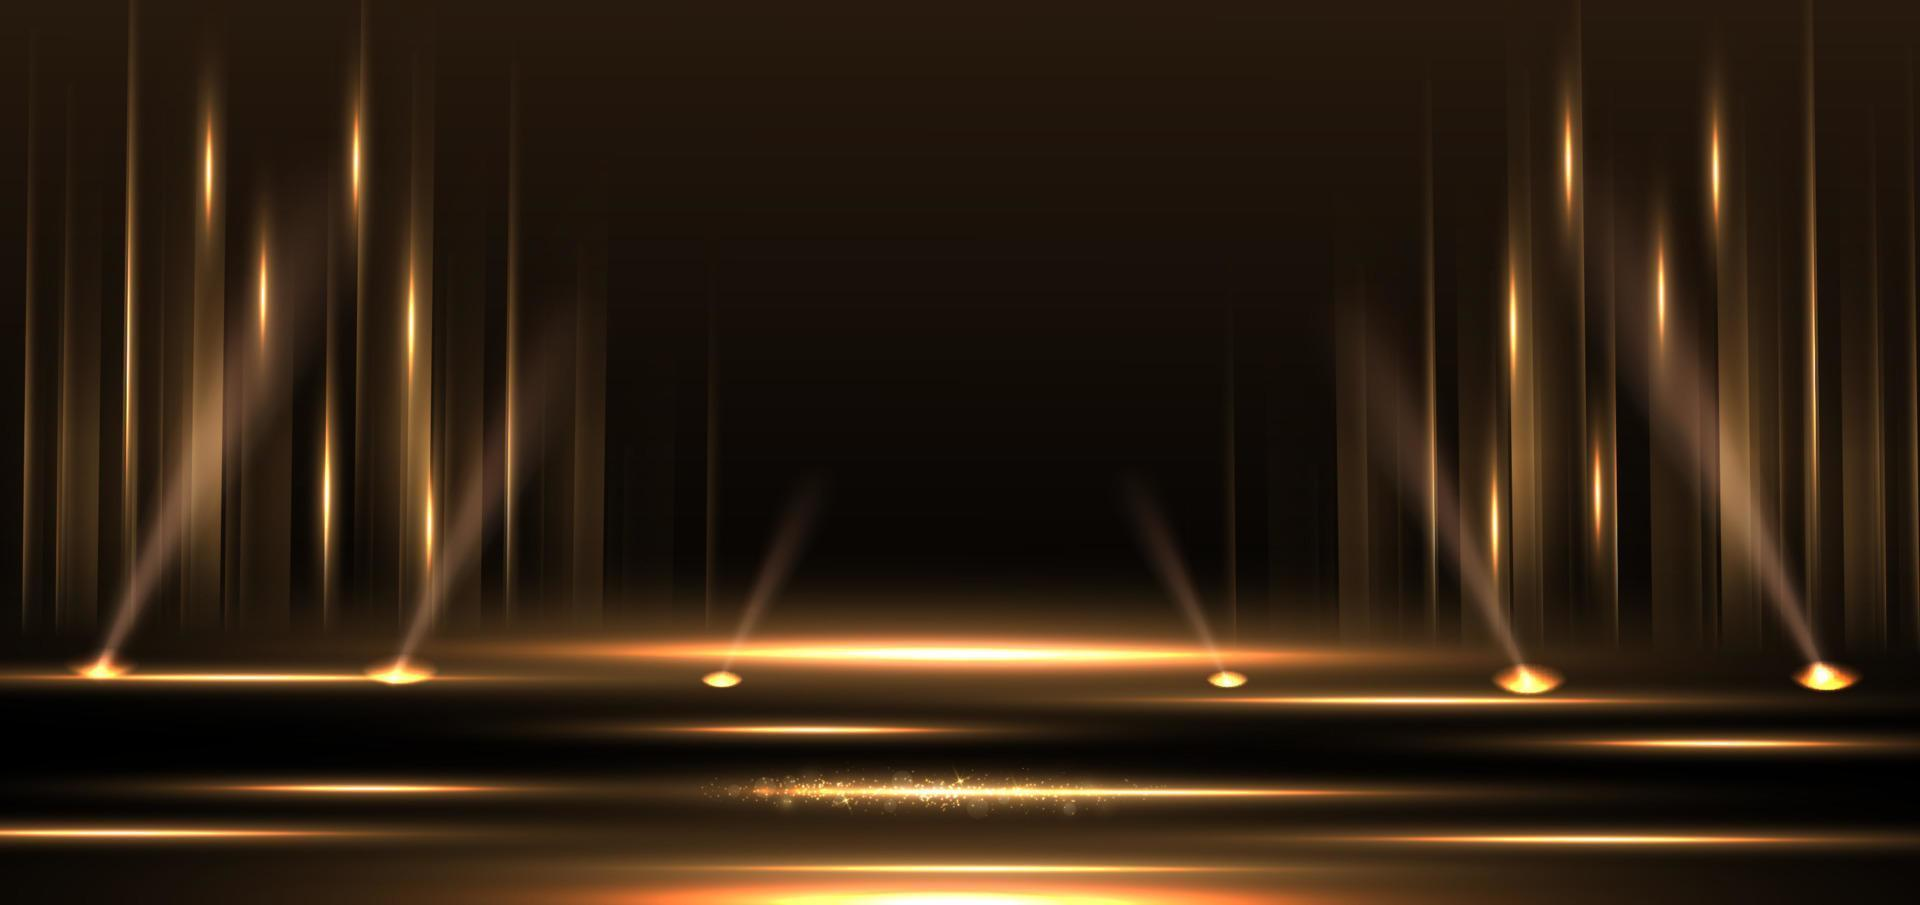
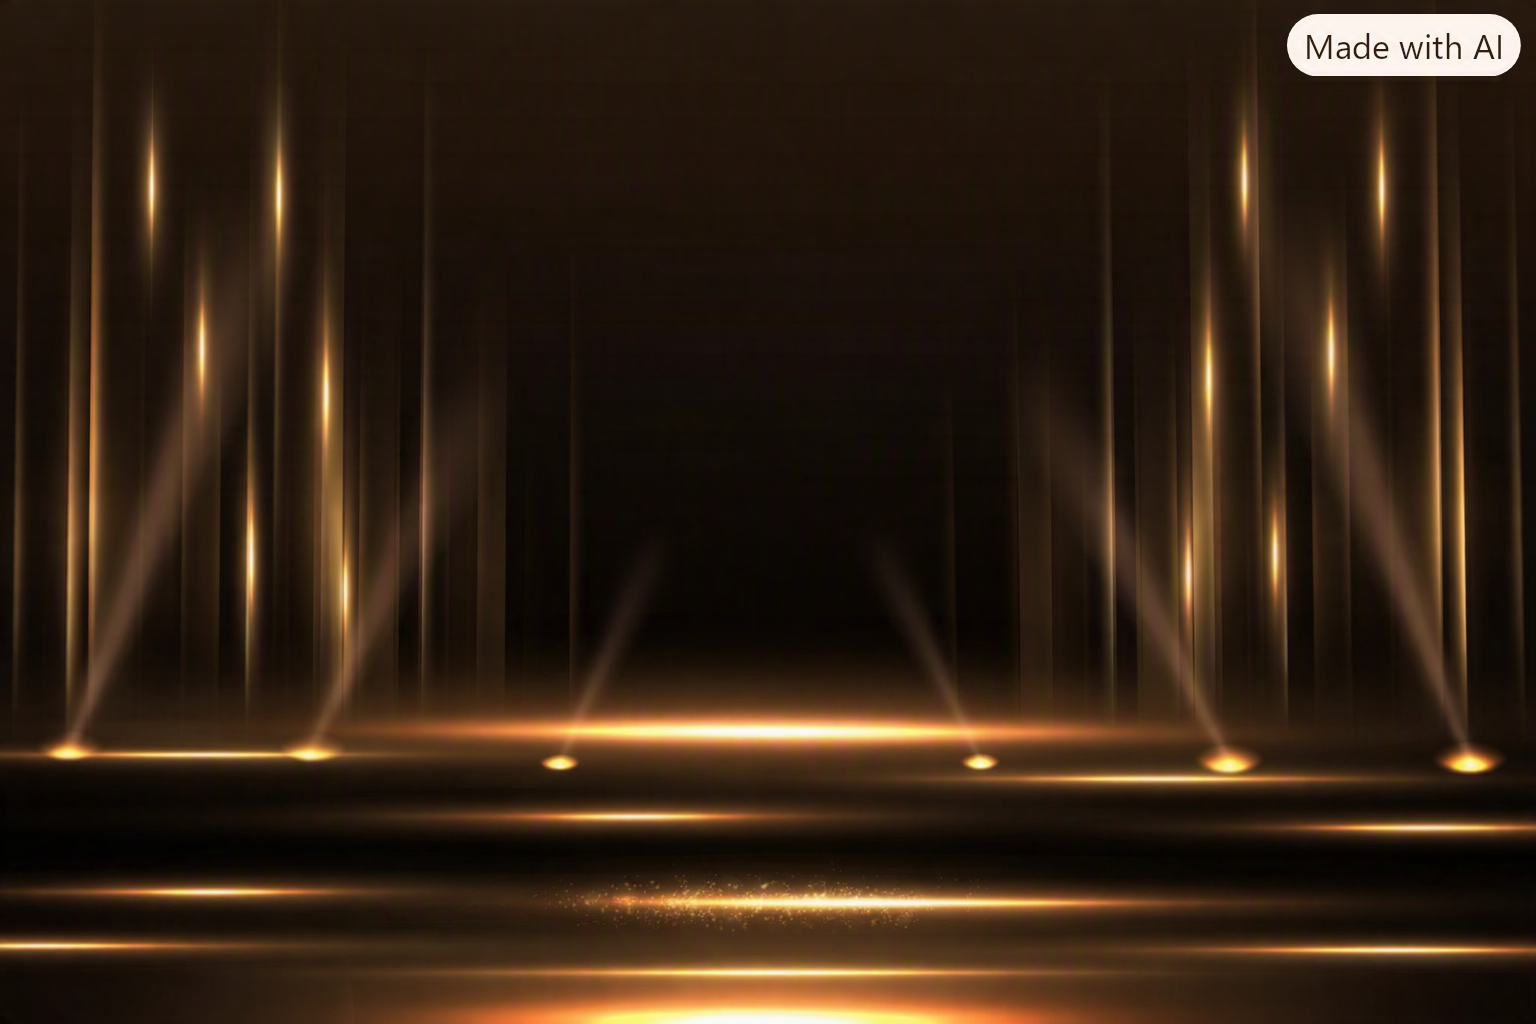
new changes
bg update and added nest page

diff --git a/WeddingInvitation.html b/WeddingInvitation.html
@@ -23,7 +23,7 @@
 
     }
     #sangeeth {
-      background-image: url('images/sangeeth.jpg');
+      background-image: url('images/sangeethbg.jpg');
     }
 
     #marriage {
@@ -61,12 +61,18 @@
       position: fixed;
       top: 10px;
       right: 10px;
+      background: rgba(0, 0, 0, 0.5); /* semi-transparent dark background */
+      padding: 8px 12px;
+      border-radius: 8px;
+      backdrop-filter: blur(4px); /* blur effect */
+      z-index: 1000;
     }
     nav a {
       margin: 0 5px;
       color: #ffd700;
       text-decoration: none;
       font-weight: bold;
+      transition: color 0.3s ease
     }
     .music-btn {
       position: fixed;   /* stays in place even when scrolling */
@@ -74,12 +80,14 @@
       right: 20px;       /* distance from right */
       padding: 10px 15px;
       font-size: 1em;
-      background: #fff;   /* gold button */
+      background: rgba(255, 215, 0, 0.85);   /* gold button */
       color: #333;
       border: none;
       border-radius: 8px;
       cursor: pointer;
       transition: background 0.3s ease;
+      backdrop-filter: blur(6px); /* blur effect */
+      z-index: 999; /* ensures it stays above section content */
     }
 
     .music-btn:hover {
@@ -98,6 +106,49 @@
 
     .map-btn:hover {
        background: #C0C0C0;   /* silver on hover */
+    }
+    section {
+       position: relative; /* important so absolute works inside */
+    }
+
+    .btn {
+      position: absolute;   /* relative to the section */
+      bottom: 70px;         /* distance from bottom of section */
+      right: 20px;          /* distance from right of section */
+      padding: 10px 15px;
+      font-size: 1em;
+      background: rgba(255, 215, 0, 0.85); /* gold with opacity */
+      color: #333;
+      border: none;
+      border-radius: 8px;
+      cursor: pointer;
+      transition: background 0.3s ease;
+      backdrop-filter: blur(4px); /* blur behind button */
+    }
+
+    .btn:hover {
+       background: rgba(192, 192, 192, 0.85); /* silver on hover */
+    }
+    .marquee {
+       position: absolute;
+       top: 40px;       /* place at bottom of section */
+       width: 100%;        /* full width */
+       overflow: hidden;
+       white-space: nowrap;
+    }
+
+    .marquee span {
+       display: inline-block;
+       padding-left: 100%; /* start off screen */
+       font-size: 1.5em;
+       font-weight: bold;
+       color: #FFD700;     /* gold text */
+       animation: scrollText 12s linear infinite;
+    }
+
+    @keyframes scrollText {
+       0%   { transform: translateX(0); }
+       100% { transform: translateX(-100%); }
     }
   </style>
 </head>
@@ -136,6 +187,9 @@
 
 <!-- Reception Section -->
 <section id="sangeeth">
+  <div class="marquee">
+    <span> ❤ Ajith weds Sreemathi ❤</span>
+  </div>
   <h1>Sangeeth</h1>
   <p><strong>Date:</strong> 12th September 2026</p>
   <p><strong>Time:</strong> 5.00 PM Onwards</p>
@@ -145,7 +199,7 @@
      class="map-btn">
     📍 View on Google Maps
   </a>
-  <a href="#marriage" class="arrow">&#8595;</a>
+  <a href="#marriage" class="btn">Next Page</a>
 </section>
 
 <!-- Marriage Section -->
@@ -159,7 +213,7 @@
      class="map-btn">
     📍 View on Google Maps
   </a>
-  <a href="#reception" class="arrow">&#8595;</a>
+  <a href="#reception" class="btn">Next Page</a>
 </section>
 
 <section id="reception">
@@ -172,12 +226,12 @@
      class="map-btn">
     📍 View on Google Maps
   </a>
-  <a href="#gallery" class="arrow">&#8595;</a>
+  <a href="#gallery" class="btn">Next Page</a>
 </section>
 
 <!-- Gallery Section -->
 <section id="gallery">
-  <h1>Our Memories</h1>
+  <h1>Sreemathi & Ajith</h1>
   <div class="gallery">
     <div class="frame">
       <img src="images/gallery1.jpg" alt="First Meet photo">
@@ -191,14 +245,16 @@
   </div>
 
 
-  <a href="#invite" class="arrow">&#8595;</a>
+
+  <a href="#invite" class="btn">Next Page</a>
   <!--<a href="#reception" class="arrow">&#8593;</a>-->
 </section>
 <section id="invite">
   <h1>Join the celebration with us</h1>
-  <p><strong>Your presence will make our moments more memorable.”.</strong> </p>
-  <p>Every smile, every blessing, every hug will make our day complete — we can’t wait to celebrate with you.</p>
-  <p>Let’s dance, laugh, and celebrate love together!</p>
+  <p><strong>Your presence will make our moments more memorable</strong> </p>
+  <p>Every smile, every blessing, every hug will make our day complete </p>
+  <p>we can’t wait to celebrate with you </P>
+  <P>Let’s dance, laugh, and celebrate love together!</p>
 
 </section>
 <!-- RSVP Section

diff --git a/index.html b/index.html
@@ -15,6 +15,15 @@
         align-items: center;       /* vertical center */
         height: 100vh;
     }
+    body::after {
+      content: "";
+      position: absolute;
+      top: 0;
+      right: 0;
+      width: 200px;   /* adjust size */
+      height: 40px;   /* adjust size */
+      background-color: #fff;
+    }
     .welcome {
        position: relative;
        left: 80px;
